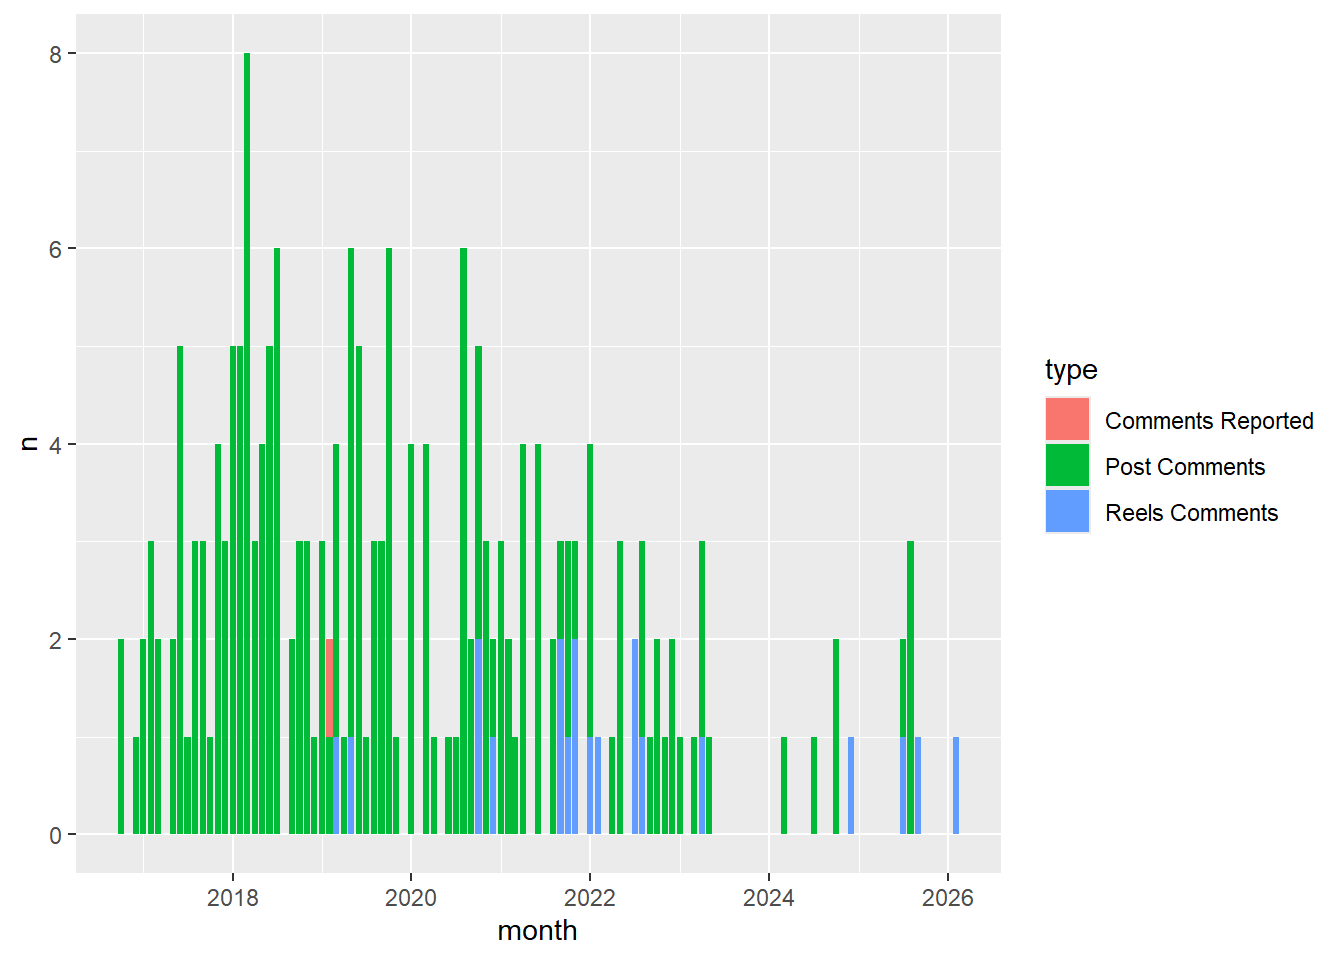
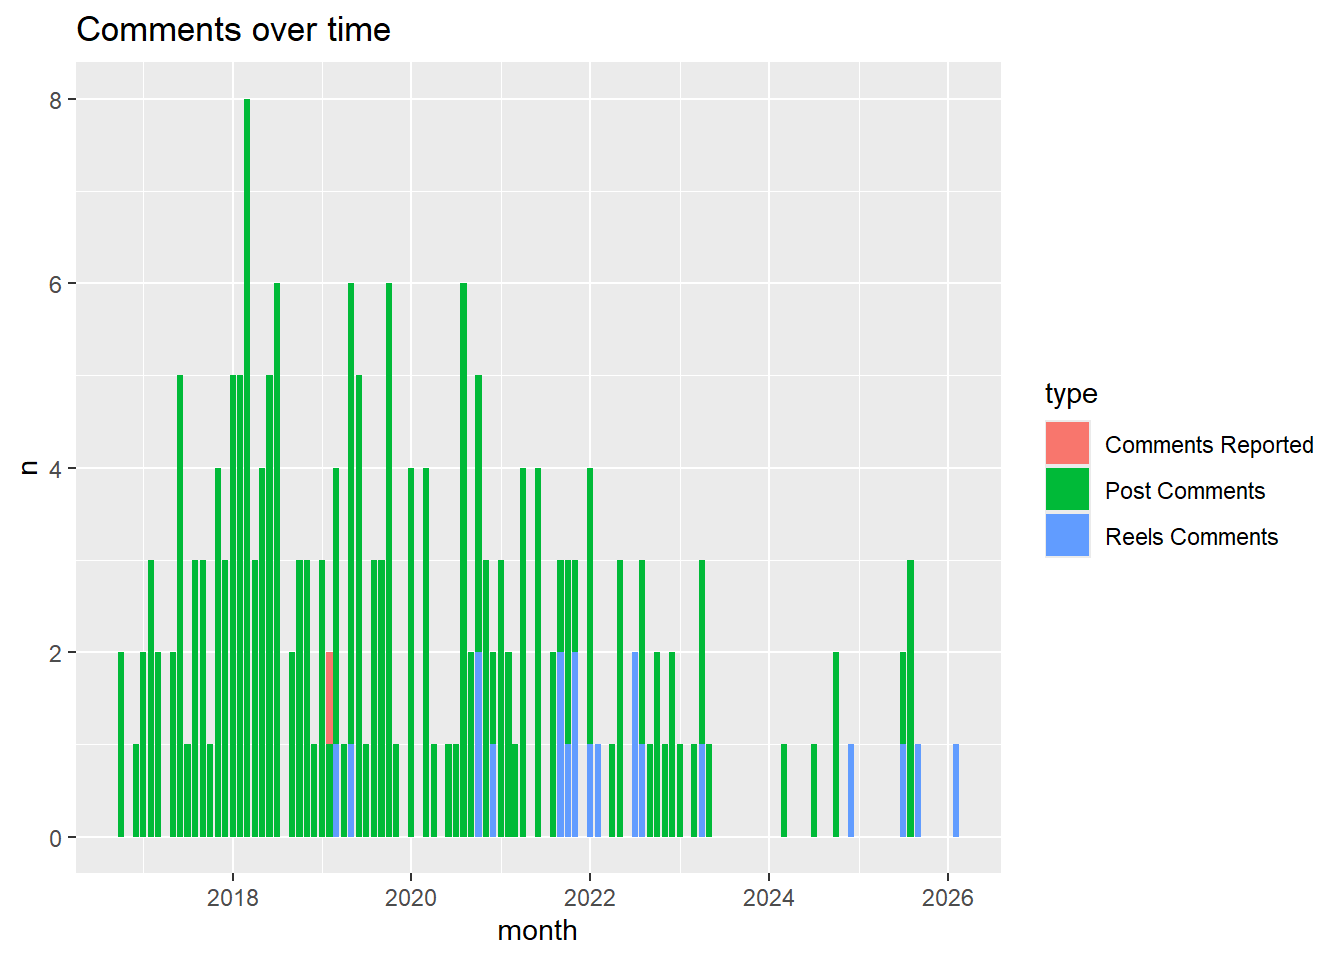
don't show code

diff --git a/public/portfolio/2026-03-17-insta-export/index.html b/public/portfolio/2026-03-17-insta-export/index.html
@@ -130,38 +130,6 @@
 <p><a href="your_instagram_activity/comments/post_comments_1.html">Post comments</a></p>
 <p><a href="your_instagram_activity/comments/reels_comments.html">Reels Comments</a></p>
 <p><a href="your_instagram_activity/comments/comments_reported.html">Comments reported</a></p>
-<pre class="r"><code>
-suppressPackageStartupMessages(library(tidyverse))
-library(rvest)
-## 
-## Attaching package: &#39;rvest&#39;
-## The following object is masked from &#39;package:readr&#39;:
-## 
-##     guess_encoding
-
-month_df = function(full_file_name, df_type) {
-    read_html(x = full_file_name) |&gt; 
-    html_elements(&quot;table&quot;) |&gt; 
-    html_text() |&gt; 
-    str_extract(&#39;(?&lt;=Time).+&#39;) |&gt; 
-    mdy_hm() |&gt; 
-    round_date(unit=&quot;month&quot;) |&gt; 
-    as_tibble() |&gt; 
-    mutate(type = df_type) |&gt; 
-    rename(month = value)
-}
-
-post_comments = month_df(&quot;./instagram-nmoorenz-2026-03-16/your_instagram_activity/comments/post_comments_1.html&quot;, &#39;Post Comments&#39;)
-    
-comments_reported = month_df(&quot;./instagram-nmoorenz-2026-03-16/your_instagram_activity/comments/comments_reported.html&quot;,&#39;Comments Reported&#39;)
-
-reels_comments = month_df(&quot;./instagram-nmoorenz-2026-03-16/your_instagram_activity/comments/reels_comments.html&quot;,&#39;Reels Comments&#39;)
-
-df_comments = rbind(post_comments, comments_reported, reels_comments) |&gt; 
-    count(month, type)
-
-ggplot(df_comments, aes(x=month, y=n, fill=type)) + 
-    geom_col()</code></pre>
 <p><img src="https://nmoore.nz/portfolio/2026-03-17-insta-export/index_files/figure-html/unnamed-chunk-1-1.png" width="672" /></p>
 </div>
 <div id="events" class="section level3">

diff --git a/content/portfolio/2026-03-17-insta-export/index.html b/content/portfolio/2026-03-17-insta-export/index.html
@@ -43,38 +43,6 @@ output:
 <p><a href="your_instagram_activity/comments/post_comments_1.html">Post comments</a></p>
 <p><a href="your_instagram_activity/comments/reels_comments.html">Reels Comments</a></p>
 <p><a href="your_instagram_activity/comments/comments_reported.html">Comments reported</a></p>
-<pre class="r"><code>
-suppressPackageStartupMessages(library(tidyverse))
-library(rvest)
-## 
-## Attaching package: &#39;rvest&#39;
-## The following object is masked from &#39;package:readr&#39;:
-## 
-##     guess_encoding
-
-month_df = function(full_file_name, df_type) {
-    read_html(x = full_file_name) |&gt; 
-    html_elements(&quot;table&quot;) |&gt; 
-    html_text() |&gt; 
-    str_extract(&#39;(?&lt;=Time).+&#39;) |&gt; 
-    mdy_hm() |&gt; 
-    round_date(unit=&quot;month&quot;) |&gt; 
-    as_tibble() |&gt; 
-    mutate(type = df_type) |&gt; 
-    rename(month = value)
-}
-
-post_comments = month_df(&quot;./instagram-nmoorenz-2026-03-16/your_instagram_activity/comments/post_comments_1.html&quot;, &#39;Post Comments&#39;)
-    
-comments_reported = month_df(&quot;./instagram-nmoorenz-2026-03-16/your_instagram_activity/comments/comments_reported.html&quot;,&#39;Comments Reported&#39;)
-
-reels_comments = month_df(&quot;./instagram-nmoorenz-2026-03-16/your_instagram_activity/comments/reels_comments.html&quot;,&#39;Reels Comments&#39;)
-
-df_comments = rbind(post_comments, comments_reported, reels_comments) |&gt; 
-    count(month, type)
-
-ggplot(df_comments, aes(x=month, y=n, fill=type)) + 
-    geom_col()</code></pre>
 <p><img src="{{< blogdown/postref >}}index_files/figure-html/unnamed-chunk-1-1.png" width="672" /></p>
 </div>
 <div id="events" class="section level3">
